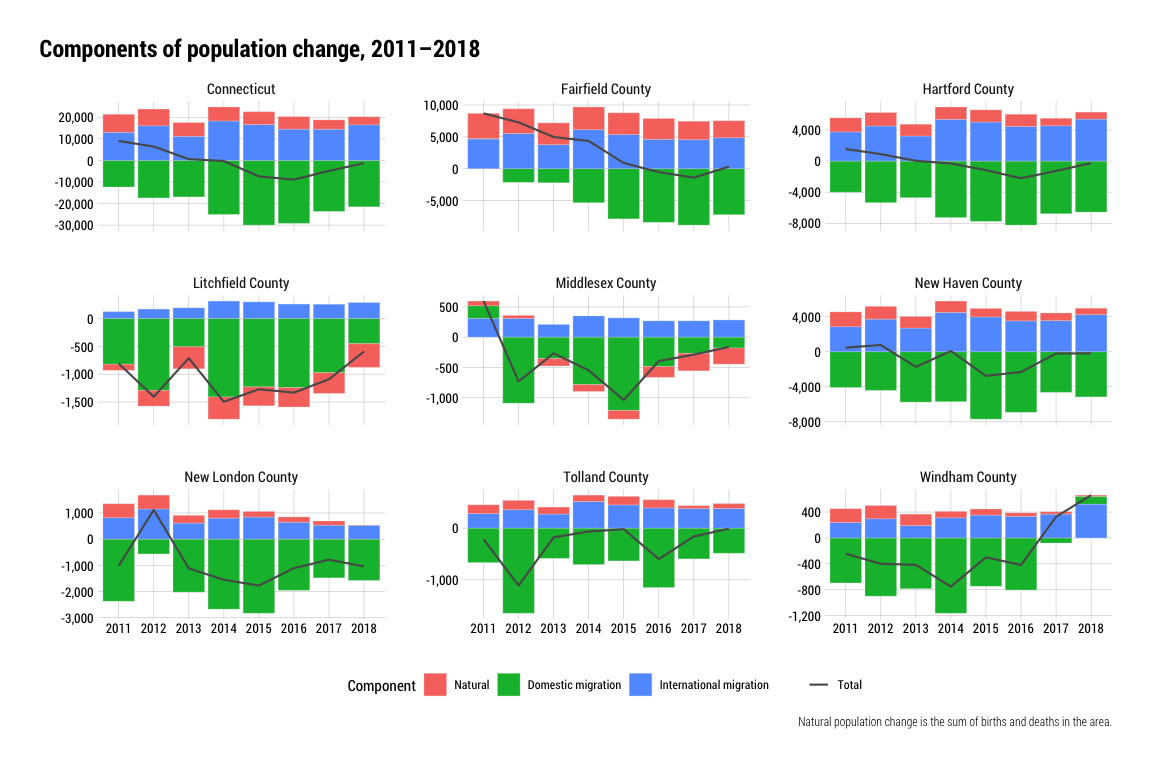
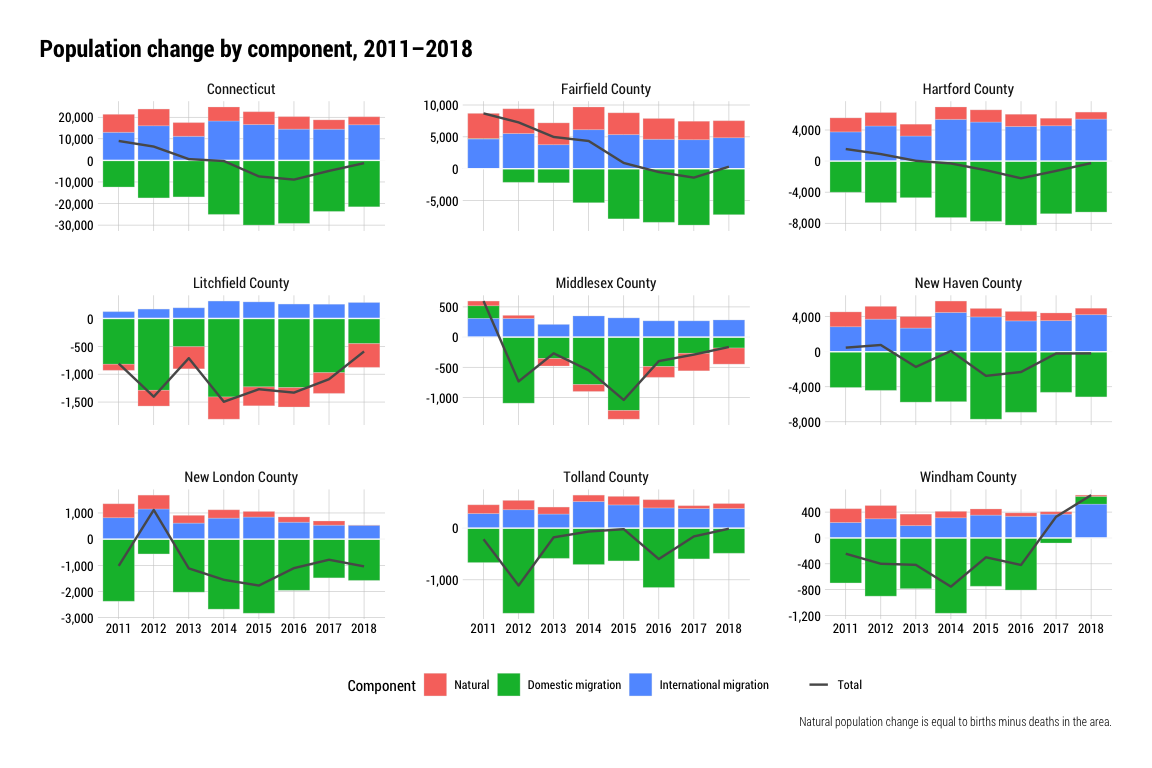
plot tweaks

diff --git a/notebooks/pop_chg_components.md b/notebooks/pop_chg_components.md
@@ -99,15 +99,16 @@ components_plot <- components %>%
 ``` r
 ggplot(components_plot, aes(x = year, y = estimate, group = var)) +
     geom_col(data = components_plot %>% filter(var != "Total"), aes(fill = var), position = position_stack(), color = "grey90", size = 0.1) +
-    geom_line(data = components_plot %>% filter(var == "Total"), aes(color = var), size = .75) +
+    geom_hline(yintercept = 0, color = .65, alpha = .9) +
+    geom_line(data = components_plot %>% filter(var == "Total"), aes(color = var), size = .85) +
     scale_color_manual(values = "grey35") +
     scale_y_continuous(labels = scales::comma_format()) +
     facet_wrap(facets = "name", scales = "free_y") +
     hrbrthemes::theme_ipsum_rc() +
     guides(color = guide_legend(title = ""),
                  fill = guide_legend(title = "Component")) +
-    labs(title = "Components of population change, 2011–2018",
-             x = "", y = "", caption = "Natural population change is the sum of births and deaths in the area.") +
+    labs(title = "Population change by component, 2011–2018",
+             x = "", y = "", caption = "Natural population change is equal to births minus deaths in the area.") +
     theme(strip.text.x = element_text(hjust = .5, size = 11),
                 panel.grid.minor = element_blank(),
                 legend.position = "bottom",
